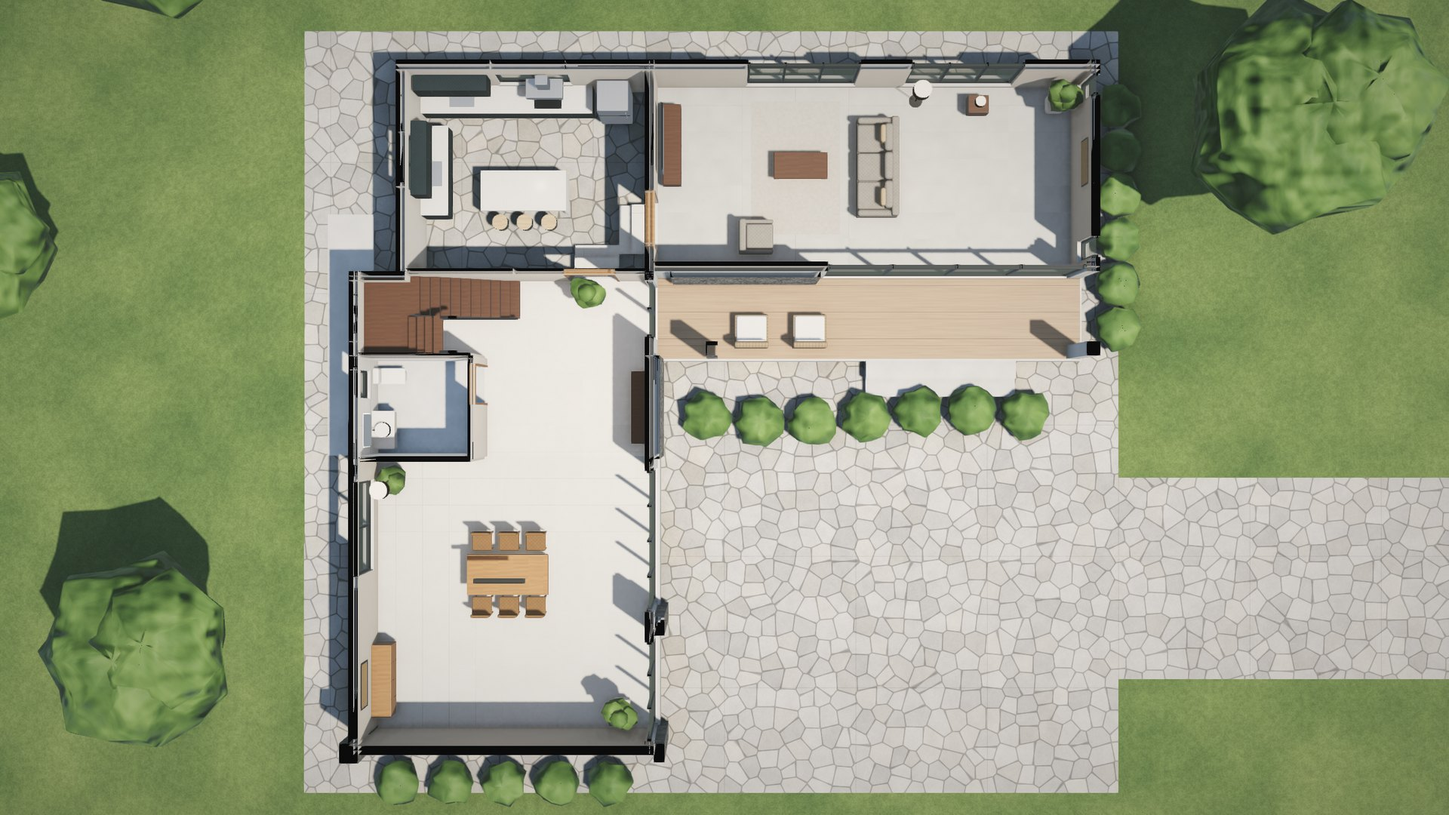
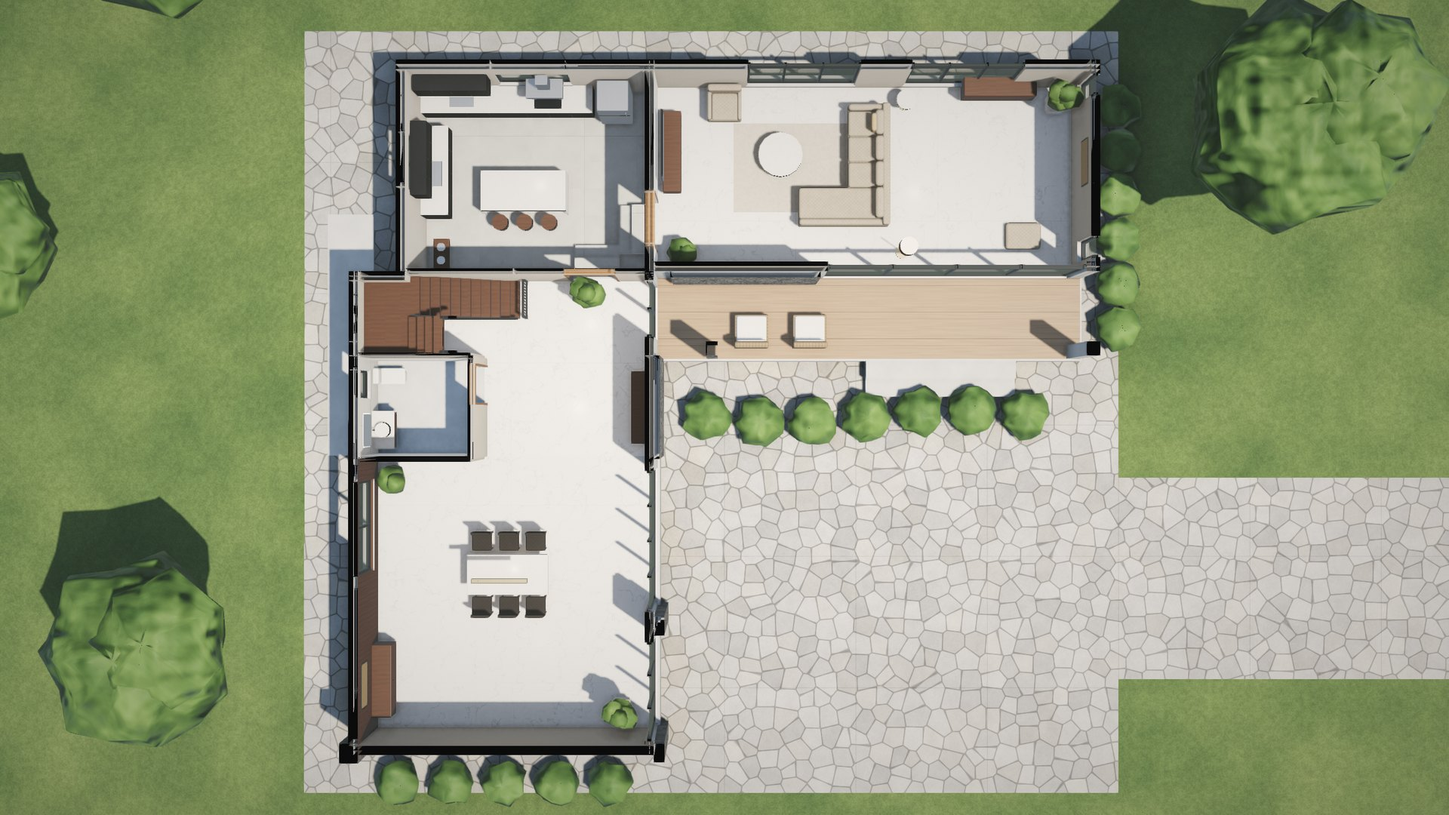
ตกแต่งภายใน Modern Luxury: วัสดุ ผังเฟอร์นิเจอร์ ห้องเด็ก ห้องทำงาน ความปลอดภัยเด็ก/สัตว์เลี้ยง
Claude-Session: https://claude.ai/code/session_013i3ffvjiePNLqy5JQb5Coc

diff --git a/studio.html b/studio.html
@@ -91,14 +91,14 @@ if(VIDEO)document.body.classList.add('video');
 const ZONES=[
  {id:0,n:'ภายนอกบ้าน',lv:0},
  {id:1,n:'ห้องรับแขก',lv:1,r:[[6.5,0,16,4.5,.6,3.9]],cam:[15.0,3.6,-1.93]},
- {id:2,n:'ครัว',lv:1,r:[[1,0,6.5,4.5,0,3.0]],cam:[5.2,3.4,-2.25]},
+ {id:2,n:'ครัว',lv:1,r:[[1,0,6.5,4.5,.012,3.0]],cam:[5.2,3.4,-2.25]},
  {id:3,n:'โถง / บันได',lv:1,r:[[3.4,4.5,6.5,6.3,.6,3.6],[0,4.5,3.4,6.3,.6,7.0],[2.6,6.3,6.5,8.5,.6,3.6]],cam:[5.6,7.9,-2.21]},
  {id:4,n:'ห้องน้ำ 3',lv:1,r:[[0,6.3,2.6,8.5,.5,3.6]],cam:[2.2,7.0,-1.23]},
  {id:5,n:'ห้องทานอาหาร',lv:1,r:[[0,8.5,6.5,12,.6,3.6],[0,12,6.5,14.8,.6,7.0]],cam:[5.6,9.0,-0.66]},
  {id:6,n:'เฉลียง',lv:1,r:[[6.5,4.5,16,6.3,.6,3.9]],cam:[15.2,5.4,-1.57]},
- {id:7,n:'ห้องนอน 3',lv:2,r:[[1,0,3.5,4.5,3.3,7.0]],cam:[3.0,3.9,-2.58]},
- {id:8,n:'ห้องนอน 2',lv:2,r:[[3.5,0,6.5,3.0,3.3,7.0]],cam:[6.0,2.7,-2.54]},
- {id:9,n:'ห้องนอน 1',lv:2,r:[[2.1,8.5,6.5,10.1,3.9,7.0],[0,10.1,6.5,12,3.9,7.0]],cam:[5.9,8.9,-0.84]},
+ {id:7,n:'ห้องเด็ก (นอน 3)',lv:2,r:[[1,0,3.5,4.5,3.3,7.0]],cam:[3.0,3.9,-2.58]},
+ {id:8,n:'ห้องทำงาน (นอน 2)',lv:2,r:[[3.5,0,6.5,3.0,3.3,7.0]],cam:[6.0,2.7,-2.54]},
+ {id:9,n:'ห้องนอนใหญ่ (นอน 1)',lv:2,r:[[2.1,8.5,6.5,10.1,3.9,7.0],[0,10.1,6.5,12,3.9,7.0]],cam:[5.9,8.9,-0.84]},
  {id:10,n:'โถงชั้น 2',lv:2,r:[[3.5,3.0,6.5,4.5,3.3,7.0],[3.4,4.5,6.5,6.3,3.9,7.0],[3.9,6.3,6.5,8.5,3.9,7.0]],cam:[5.2,8.0,3.14]},
  {id:11,n:'ห้องน้ำ 1',lv:2,r:[[0,6.3,2.1,10.1,3.8,7.0]],cam:[1.4,9.7,3.14]},
  {id:12,n:'ห้องน้ำ 2',lv:2,r:[[2.1,6.3,3.9,8.5,3.8,7.0]],cam:[3.5,7.0,-1.57]},
@@ -106,23 +106,23 @@ const ZONES=[
 ];
 const FLOORS=['แกรนิตโต้ 60×60 ขาวด้าน','ลามิเนตลายโอ๊ค 8 มม.','กระเบื้องเซรามิก 30×30','ปูนขัดมัน (ลอฟต์)','หินอ่อนคาร์ราร่า 80×80','ไม้เทียม WPC','SPC ลายวอลนัท','เทอราซโซ่','แกรนิตโต้ 60×120 ลายหินเทา'];
 const WOODS=[['โอ๊คธรรมชาติ','#a8794a'],['วอลนัท','#5b3a24'],['สัก','#8c5a30'],['ไวท์โอ๊ค','#cdb08a'],['ลามิเนตขาวด้าน','#e9e6df'],['เทาเข้ม (HPL)','#4b4b4d']];
-const DEF={1:['#ece6dc',8,'#9a9690'],2:['#f2efe9',0,'#2f3b40'],3:['#efebe4',0,'#7a5a3c'],4:['#d9d6d0',2,'#f4f4f2'],5:['#efe8dd',0,'#8a6a4a'],6:['#f2efe9',5,'#d8cfc2'],
- 7:['#e4ded3',1,'#b9c4c9'],8:['#e6e2da',1,'#c9b9a6'],9:['#e9e2d6',6,'#9aa8a0'],10:['#efebe4',1,'#7a5a3c'],11:['#cfcac2',2,'#f4f4f2'],12:['#cfcac2',2,'#f4f4f2'],13:['#f2efe9',2,'#d8cfc2']};
+const DEF={1:['#e8e2d8',4,'#b8ad9d'],2:['#eeeae3',8,'#2b2d30'],3:['#e8e2d8',4,'#2b2d30'],4:['#d9d4cc',2,'#2b2d30'],5:['#e8e2d8',4,'#3a3633'],6:['#f2efe9',5,'#d8cfc2'],
+ 7:['#e3e8ea',1,'#a9bccb'],8:['#dcd6cc',6,'#4a4f55'],9:['#e4dcd0',6,'#b9aa96'],10:['#e8e2d8',6,'#7a5a3c'],11:['#d9d4cc',2,'#2b2d30'],12:['#d9d4cc',2,'#2b2d30'],13:['#f2efe9',2,'#d8cfc2']};
 const LIGHTS=[[1,8.6,3.85,2.2],[1,12.6,3.85,2.2],[2,3.7,2.95,2.2],[3,4.8,3.55,5.4],[3,1.8,6.95,5.4],[3,4.5,3.55,7.4],[4,1.3,3.55,7.4],[5,3.2,2.85,11.1],[5,3.2,6.95,13.4],[6,9.5,3.85,5.4],[6,13.5,3.85,5.4],
  [7,2.3,6.95,2.2],[8,5,6.95,1.5],[9,4.2,6.95,10.6],[10,5,6.95,5.4],[11,1,6.95,8.2],[12,3,6.95,7.4]];
 
 // ================= state =================
 const S={wall:'#f2efe9',acc:'#3a3c40',wood:'#6b4a2f',stone:'#8f8a82',tod:38,trees:true,slats:true,spin:!VIDEO,Z:{}};
-const DEFW={1:1,2:3,3:1,4:4,5:0,6:2,7:3,8:0,9:0,10:1,11:2,12:2,13:2};
-const DEFF={4:4,11:4,12:4};
+const DEFW={1:1,2:1,3:1,4:1,5:1,6:2,7:3,8:1,9:1,10:1,11:1,12:1,13:2};
+const DEFF={4:4,11:7,12:4};
 for(const z of ZONES)if(z.id)S.Z[z.id]={wall:DEF[z.id][0],floor:DEF[z.id][1],furn:DEF[z.id][2],wood:DEFW[z.id],fin:DEFF[z.id]||0,show:true,light:true};
 const PAL={wall:['#f2efe9','#e9e4da','#d9d4cc','#c7c2b8','#ece3d3','#dfe6e8'],acc:['#3a3c40','#1f2124','#6d6f73','#f2efe9','#8a6a4a'],wood:['#6b4a2f','#8a5f3a','#3e2b1d','#b08257','#2b2b2b'],stone:['#8f8a82','#6e6a64','#a89a86','#5b5853','#b9b2a6'],
  iwall:['#f2efe9','#ece6dc','#e4ded3','#d6d3cd','#c9cdd0','#dfe6e1','#efe1d1','#b8a990','#7d8a86','#5d6266','#2f3438'],
  furn:['#8b8f94','#3d4a4f','#b9c4c9','#c9b9a6','#9aa8a0','#8a6a4a','#d8cfc2','#f4f4f2','#2b2d30','#a65d3f','#4a5d7a']};
-try{const sv=JSON.parse(localStorage.getItem('rb-house6')||'null');if(sv&&!VIDEO){const z=sv.Z;delete sv.Z;Object.assign(S,sv,{spin:true});if(z)for(const k in z)if(S.Z[k])Object.assign(S.Z[k],z[k]);}}catch(e){}
+try{const sv=JSON.parse(localStorage.getItem('rb-house7')||'null');if(sv&&!VIDEO){const z=sv.Z;delete sv.Z;Object.assign(S,sv,{spin:true});if(z)for(const k in z)if(S.Z[k])Object.assign(S.Z[k],z[k]);}}catch(e){}
 for(const k of ['wall','acc','wood','stone'])if(Q.get(k))S[k]='#'+Q.get(k);
 if(Q.get('tod'))S.tod=+Q.get('tod');
-const save=()=>{try{localStorage.setItem('rb-house6',JSON.stringify(S));}catch(e){}};
+const save=()=>{try{localStorage.setItem('rb-house7',JSON.stringify(S));}catch(e){}};
 
 // ================= GL =================
 const cv=document.getElementById('c');
@@ -130,7 +130,7 @@ const gl=cv.getContext('webgl2',{antialias:false,preserveDrawingBuffer:VIDEO,alp
 if(!gl){document.body.innerHTML='<p style="padding:20px">อุปกรณ์นี้ไม่รองรับ WebGL2 — ดูวิดีโอแทนได้ที่ <a href="house_360.mp4" style="color:#e8b86a">วิดีโอ 360°</a></p>';throw 0;}
 
 // ================= geometry =================
-const M={blackm:26,screen:27,steel:28,rattan:29,shade:30,down:31,pillow:32,pot:33,wall:0,stone:1,wood:2,glass:3,frame:4,conc:5,grass:6,pave:7,deck:8,acc:9,leaf:10,trunk:11,roof:12,soff:13,floor:14,ceil:15,furn:16,woodf:17,linen:18,dark:19,metal:20,white:21,top:22,lamp:23,rug:24,mirror:25};
+const M={brass:34,blackm:26,screen:27,steel:28,rattan:29,shade:30,down:31,pillow:32,pot:33,wall:0,stone:1,wood:2,glass:3,frame:4,conc:5,grass:6,pave:7,deck:8,acc:9,leaf:10,trunk:11,roof:12,soff:13,floor:14,ceil:15,furn:16,woodf:17,linen:18,dark:19,metal:20,white:21,top:22,lamp:23,rug:24,mirror:25};
 let G,COL,SURF,SCOL=[],DCOL=[];
 function Geo(){this.a=[];this.g=[];}
 Geo.prototype.quad=function(p0,p1,p2,p3,n,m,z){const a=m===M.glass?this.g:this.a;for(const p of [p0,p1,p2,p0,p2,p3])a.push(p[0],p[1],p[2],n[0],n[1],n[2],m,z);};
@@ -168,6 +168,7 @@ Geo.prototype.cyl=function(cx,y0,cz,r,y1,m,zn,col){const N=16,a=this.a;for(let i
 // ops: {a0,a1,y0,y1,k:'win'|'slide'|'open',p:panes,tr:transom}
 let OPN=0,OPS={},OPICK=[],WN=0,WALLS={},WPICK=[],WALLREG=false;
 const FINS=['สีทาเรียบ','หินตกแต่ง','อิฐโชว์','ผนังไม้','กระเบื้อง 30×60','ปูนเปลือย','วอลเปเปอร์','หินอ่อน'];
+function featureFin(axis,c,a0,z){z=z%100;if(z===1&&axis==='x'&&Math.abs(c-6.4)<.01)return 7;if(z===9&&axis==='z'&&Math.abs(c-12)<.01)return 3;if(z===5&&axis==='x'&&Math.abs(c-.1)<.01&&a0>=8.5)return 3;return null;}
 function zoneFin(z){z=z%100;return z===0?(S.extFin||0):((S.Z[z]&&S.Z[z].fin)||0);}
 function wall(axis,c,a0,a1,y0,y1,t,zn,zp,ops){
   const wid=WALLREG?WN++:null;
@@ -175,7 +176,7 @@ function wall(axis,c,a0,a1,y0,y1,t,zn,zp,ops){
     WPICK.push({kind:'wl',id:wid,lv:y1<=4?1:(y0>=3.1?2:0),box:axis==='x'?[c-t/2-.04,y0,a0,c+t/2+.04,y1,a1]:[a0,y0,c-t/2-.04,a1,y1,c+t/2+.04]});
     ops=(ops||[]).filter(o=>!(S.opdel&&S.opdel[o.id]));for(const ad of (S.opadd||[]))if(ad.wid===wid)ops.push(Object.assign({},ad));}
   const wsel=wid!==null&&SELI&&SELI.kind==='wl'&&SELI.id===wid?100:0;
-  const mN=40+((wid!==null&&S.wf&&S.wf[wid+'n']!=null)?S.wf[wid+'n']:zoneFin(zn)),mP=40+((wid!==null&&S.wf&&S.wf[wid+'p']!=null)?S.wf[wid+'p']:zoneFin(zp));
+  const fz=z=>{const ff=wid!==null?featureFin(axis,c,a0,z):null;return ff!=null?ff:zoneFin(z);};const mN=40+((wid!==null&&S.wf&&S.wf[wid+'n']!=null)?S.wf[wid+'n']:fz(zn)),mP=40+((wid!==null&&S.wf&&S.wf[wid+'p']!=null)?S.wf[wid+'p']:fz(zp));
   ops=(ops||[]).map(o=>{if(o.id===undefined)return Object.assign({},o);OPS[o.id]={id:o.id,axis,c,a0,a1,y0,y1,zn,zp,orig:o};return Object.assign({},o,(S.ops&&S.ops[o.id])||{});}).sort((p,q)=>p.a0-q.a0);
   {let prev=a0+0.05;for(const o of ops){const w=Math.max(.3,o.a1-o.a0);o.a0=Math.max(o.a0,prev);o.a1=Math.min(o.a0+w,a1-.05);o.y0=Math.max(o.y0,y0);o.y1=Math.min(o.y1,y1-.05);if(o.y1-o.y0<.3)o.y0=o.y1-.3;prev=o.a1+.08;}
    ops=ops.filter(o=>o.a1-o.a0>=.25);}
@@ -263,7 +264,7 @@ function buildHouse(){
   // ---------- stair ST-1 (two flights + landing) ----------
   for(let i=0;i<11;i++){box(3.4-0.2*(i+1),0.6,4.55,3.4-0.2*i,0.6+0.15*(i+1),5.4,M.woodf,3,true);}
   box(.2,0.6,4.55,1.2,2.25,6.25,M.woodf,3,true);surf(.2,4.55,1.2,6.25,2.25);
-  for(let i=0;i<11;i++){const ty=2.25+0.15*(i+1);box(1.2+0.2*i,ty-0.06,5.45,1.2+0.2*(i+1),ty,6.25,M.woodf,3);COL.push([1.2+0.2*i,ty-0.35,5.45,1.2+0.2*(i+1),ty,6.25]);}
+  for(let i=0;i<11;i++){const ty=2.25+0.15*(i+1);box(1.2+0.2*i,ty-0.06,5.45,1.2+0.2*(i+1),ty,6.25,M.woodf,3);box(1.2+0.2*i,ty-0.21,5.47,1.2+0.2*i+0.018,ty-0.06,6.23,M.woodf,3);COL.push([1.2+0.2*i,ty-0.35,5.45,1.2+0.2*(i+1),ty,6.25]);}
   {const a=[1.2,2.1],b=[3.4,3.75];for(const zz of [5.45,6.19]){const n=12;for(let k=0;k<n;k++){const x0=a[0]+(b[0]-a[0])*k/n,x1=a[0]+(b[0]-a[0])*(k+1)/n,y0=a[1]+(b[1]-a[1])*k/n;box(x0,y0,zz,x1,y0+0.22,zz+0.06,M.frame);}}}
   surf(1.2,4.55,3.4,5.4,0,{x0:3.4,y0:.6,x1:1.2,y1:2.25});surf(1.2,5.45,3.4,6.25,0,{x0:1.2,y0:2.25,x1:3.4,y1:3.9});
   box(3.38,3.9,4.5,3.42,4.9,5.42,M.glass,0,true);box(3.36,4.9,4.5,3.44,4.95,5.42,M.frame);   // railing at stairwell
@@ -329,10 +330,10 @@ const CAT={
  rug:{n:'พรม 200×300',g:'นั่งเล่น',f(b){b(-1,0,-1.5,1,.012,1.5,M.rug,.005);}},
  plant:{n:'ต้นไม้กระถาง (ไทรใบสัก)',g:'ของตกแต่ง',f(b,c){b(-.19,0,-.19,.19,.42,.19,M.pot,.07);c(0,.4,0,.02,1.0,M.trunk);c.blob(0,1.15,0,.32,.38);c.blob(.15,1.4,.05,.26,.3);c.blob(-.12,1.5,-.08,.24,.28);c.blob(.02,1.7,.02,.2,.22);}},
  plant2:{n:'ต้นไม้เล็ก (มอนสเตอร่า)',g:'ของตกแต่ง',f(b,c){b(-.15,0,-.15,.15,.3,.15,M.pot,.06);c.blob(0,.55,0,.32,.26);c.blob(.12,.7,.06,.22,.2);}},
- lampf:{n:'โคมไฟตั้งพื้น',g:'ของตกแต่ง',f(b,c){c(0,0,0,.15,.02,M.blackm);c(0,.02,0,.012,1.32,M.blackm);c(0,1.3,0,.2,1.6,M.shade);}},
- pendant:{n:'โคมไฟห้อย LED',g:'ของตกแต่ง',f(b,c,k){b(-.55,2.2,-.05,.55,2.26,.05,M.blackm,.01);b(-.53,2.195,-.035,.53,2.2,.035,M.down);for(const x of[-.4,.4])b(x-.004,2.26,-.004,x+.004,k.ceil,.004,M.blackm);},nocol:1},
+ lampf:{n:'โคมไฟตั้งพื้น',g:'ของตกแต่ง',f(b,c){c(0,0,0,.15,.02,M.brass);c(0,.02,0,.012,1.32,M.brass);c(0,1.3,0,.2,1.6,M.shade);}},
+ pendant:{n:'โคมไฟห้อย LED',g:'ของตกแต่ง',f(b,c,k){b(-.6,2.2,-.05,.6,2.26,.05,M.brass,.01);b(-.58,2.195,-.035,.58,2.2,.035,M.down);for(const x of[-.45,.45])b(x-.004,2.26,-.004,x+.004,k.ceil,.004,M.brass);},nocol:1},
  art:{n:'กรอบรูปติดผนัง',g:'ของตกแต่ง',f(b){b(-.5,1.3,-.03,.5,2.0,0,M.blackm);b(-.47,1.33,-.031,.47,1.97,.001,M.pillow);},nocol:1},
- dining:{n:'ชุดโต๊ะอาหาร 6 ที่ 180×90',g:'ทานอาหาร',f(b){b(-.9,.71,-.45,.9,.75,.45,M.woodf,.01);for(const x of[-.8,.8])b(x-.03,0,-.38,x+.03,.71,.38,M.blackm);b(-.8,.66,-.03,.8,.7,.03,M.blackm);
+ dining:{n:'ชุดโต๊ะอาหาร 6 ที่ 180×90 ท็อปหินอ่อนขอบมน',g:'ทานอาหาร',f(b){b(-.9,.71,-.45,.9,.75,.45,M.top,.06);for(const x of[-.7,.7])b(x-.03,0,-.3,x+.03,.71,.3,M.brass,.01);b(-.7,.64,-.03,.7,.68,.03,M.brass);
    for(const x of[-.6,0,.6])for(const s of[-1,1]){const z=s*.72;b(x-.22,.44,z-.21,x+.22,.5,z+.21,M.furn,.03);b(x-.21,.5,s<0?z-.22:z+.16,x+.21,.88,s<0?z-.16:z+.22,M.furn,.03);
      for(const[dx,dz]of[[-.18,-.18],[.18,-.18],[-.18,.18],[.18,.18]])b(x+dx-.015,0,z+dz-.015,x+dx+.015,.44,z+dz+.015,M.woodf);}}},
  dining4:{n:'ชุดโต๊ะอาหาร 4 ที่ 120×80',g:'ทานอาหาร',f(b){b(-.6,.71,-.4,.6,.75,.4,M.woodf,.01);legs(b,.54,.34,.71,M.woodf,.025);
@@ -360,17 +361,33 @@ const CAT={
  tub:{n:'อ่างอาบน้ำแบบตั้งพื้น',g:'ห้องน้ำ',f(b){b(-.8,0,-.38,.8,.58,.38,M.white,.18);b(-.68,.4,-.27,.68,.582,.27,M.top,.12);}},
  shower:{n:'ฉากกั้นอาบน้ำ + เรนชาวเวอร์',g:'ห้องน้ำ',f(b,c){b(-.45,0,-.6,.45,.02,.6,M.white);b(-.45,0,.58,.45,2.0,.6,M.glass);b(-.45,1.97,.575,.45,2.0,.605,M.blackm);b(.44,0,.575,.47,2.0,.605,M.blackm);
    c(0,2.0,-.3,.12,2.02,M.blackm);b(-.01,2.02,-.6,.01,2.04,-.3,M.blackm);}},
+ coffeeR:{n:'โต๊ะกลางหินอ่อนขอบมน Ø100',g:'นั่งเล่น',f(b,c){c(0,0,0,.3,.02,M.brass);c(0,.02,0,.16,.3,M.brass);c(0,.3,0,.5,.37,M.top);}},
+ sideR:{n:'โต๊ะข้างหินอ่อน Ø45',g:'นั่งเล่น',f(b,c){c(0,0,0,.16,.02,M.brass);c(0,.02,0,.025,.5,M.brass);c(0,.5,0,.225,.53,M.top);}},
+ gate:{n:'ประตูกั้นบันได (กันเด็ก/สัตว์เลี้ยง)',g:'ความปลอดภัย',nocol:1,f(b){b(-.43,0,-.03,-.39,.8,.03,M.blackm);b(.39,0,-.03,.43,.8,.03,M.blackm);b(-.43,.76,-.02,.43,.8,.02,M.blackm);b(-.43,.04,-.02,.43,.08,.02,M.blackm);for(let x=-.33;x<.36;x+=.065)b(x-.008,.08,-.008,x+.008,.76,.008,M.blackm);}},
+ rugR:{n:'พรมกลม Ø160',g:'ห้องเด็ก',f(b,c){c(0,0,0,.8,.012,M.rug);}},
+ toybox:{n:'ชั้นเก็บของเล่นขอบมน',g:'ห้องเด็ก',f(b){b(-.6,0,-.2,.6,.62,.2,M.woodf,.03);for(const x of[-.2,.2])b(x-.004,.04,.2,x+.004,.58,.203,M.blackm);b(-.5,.62,-.12,-.22,.82,.1,M.pillow,.06);b(.15,.62,-.1,.45,.74,.1,M.furn,.05);}},
+ kidtable:{n:'โต๊ะเด็กกลม + เก้าอี้',g:'ห้องเด็ก',f(b,c){c(0,0,0,.04,.46,M.woodf);c(0,.46,0,.36,.5,M.woodf);for(const x of[-.55,.55])c(x,0,0,.15,.28,M.furn);}},
+ deskL:{n:'โต๊ะทำงาน 160×70 + เก้าอี้ Ergonomic',g:'ห้องทำงาน',f(b){b(-.8,.72,-.35,.8,.76,.35,M.woodf,.01);b(-.78,0,-.32,-.74,.72,.32,M.brass);b(.74,0,-.32,.78,.72,.32,M.brass);b(.3,.45,-.33,.72,.72,.15,M.woodf);
+   b(-.36,.86,-.3,.36,1.27,-.27,M.screen,.005);b(-.03,.76,-.27,.03,.88,-.22,M.blackm);b(-.2,.76,-.05,.2,.77,.08,M.blackm);
+   b(-.26,.47,.3,.26,.55,.8,M.furn,.04);b(-.25,.6,.74,.25,1.25,.82,M.furn,.05);b(-.02,.06,.53,.02,.47,.57,M.blackm);b(-.3,0,.25,.3,.06,.85,M.blackm);}},
+ shelf:{n:'ชั้นหนังสือวอลนัท 160×35×200',g:'ห้องทำงาน',f(b){b(-.8,0,-.17,-.77,2,.17,M.woodf);b(.77,0,-.17,.8,2,.17,M.woodf);b(-.8,0,-.17,.8,2,-.14,M.woodf);b(-.8,1.97,-.17,.8,2,.17,M.woodf);
+   for(let y=0;y<1.9;y+=.4){b(-.77,y,-.14,.77,y+.025,.17,M.brass);for(let i=0;i<9;i++){const x=-.7+i*.16+((y*10)%3)*.01,h=.2+((i*37+y*50)%7)*.02;if((i+y*7)%5<1)continue;b(x,y+.025,-.1,x+.05,y+.025+h,.12,(i+Math.round(y*5))%3?M.pillow:M.furn);}}}},
+ dresser:{n:'โต๊ะเครื่องแป้ง + กระจก',g:'ห้องนอน',f(b,c){b(-.6,.15,-.22,.6,.76,.22,M.woodf,.01);legs(b,.55,.17,.15,M.brass,.015);b(-.32,.95,-.22,.32,1.65,-.2,M.mirror,.01);b(-.34,.93,-.225,.34,1.67,-.215,M.brass);c(0,0,.45,.2,.45,M.furn);}},
+ petbed:{n:'ที่นอนสัตว์เลี้ยง',g:'สัตว์เลี้ยง',f(b){b(-.4,0,-.3,.4,.2,.3,M.furn,.08);b(-.32,.06,-.22,.32,.16,.22,M.linen,.05);}},
+ petfeed:{n:'มุมให้อาหารสัตว์เลี้ยง',g:'สัตว์เลี้ยง',f(b,c){b(-.35,0,-.18,.35,.12,.18,M.woodf,.02);c(-.15,.12,0,.1,.17,M.steel);c(.15,.12,0,.1,.17,M.steel);}},
  lounge:{n:'เก้าอี้สนามหวาย',g:'ภายนอก',f(b){b(-.38,0,-.38,.38,.36,.38,M.rattan,.04);b(-.38,0,-.38,.38,.78,-.24,M.rattan,.04);b(-.33,.36,-.25,.33,.46,.34,M.linen,.04);b(-.33,.46,-.3,.33,.74,-.2,M.linen,.05);}},
 };
 const ITEMS0=[
- ['sofa',11.4,2.05,1,1],['art',15.78,2.1,1,1],['lampf',12.3,.5,0,1],['tv',6.83,1.55,3,1],['coffee',9.7,2.0,0,1],['rug',9.6,2.0,0,1],['arm',8.7,3.6,3,1],['plant',15.4,.6,0,1],['night',13.65,.65,0,1],
- ['counter',2.2,.5,0,1],['counterhob',4.05,.5,0,1],['counter',1.5,2.1,3,1],['wallcab',2.05,.5,0,1],['wallcab',1.5,2.0,3,1],['fridge',5.55,.58,0,1],['island',3.5,2.55,0,1],
- ['shoe',6.12,7.4,1,1],['plant',5.0,4.9,0,1],['toilet',.5,6.7,3,1],['vanity',.45,7.9,3,1],
- ['dining',3.2,11.1,0,1],['art',.22,13.4,3,1],['plant2',.6,9.0,0,1],['pendant',3.2,11.1,0,1],['side',.42,13.45,3,1],['plant',5.7,14.1,0,1],['lampf',.5,9.2,0,1],
+ ['lsofa',11.2,2.0,1,1],['coffeeR',9.25,1.75,0,1],['rug',9.7,2.0,1,1],['tv',6.83,1.7,3,1],['arm',8.0,.62,0,1],['sideR',12.05,.55,0,1],['lampf',12.0,3.9,0,1],
+ ['side',14.1,.3,0,1],['art',15.78,2.1,1,1],['plant',15.4,.6,0,1],['plant2',7.05,3.95,0,1],['petbed',14.7,3.55,0,1],
+ ['counter',2.2,.5,0,1],['counterhob',4.05,.5,0,1],['counter',1.5,2.1,3,1],['wallcab',2.05,.5,0,1],['wallcab',1.5,2.0,3,1],['fridge',5.55,.58,0,1],['island',3.5,2.55,0,1],['petfeed',1.55,3.9,3,1],
+ ['shoe',6.12,7.4,1,1],['plant',5.0,4.9,0,1],['gate',3.55,4.98,1,1],['toilet',.5,6.7,3,1],['vanity',.45,7.9,3,1],
+ ['dining',3.2,11.1,0,1],['pendant',3.2,11.1,0,1],['side',.42,13.45,3,1],['art',.22,13.4,3,1],['plant2',.6,9.0,0,1],['plant',5.7,14.1,0,1],
  ['lounge',8.6,5.7,2,1],['lounge',9.9,5.7,2,1],
- ['bed6',2.35,2.2,3,2],['night',1.55,.6,3,2],['night',1.55,3.8,3,2],['ward',2.78,4.08,2,2],
- ['bed6',5.0,1.33,0,2],['ward',6.0,.95,1,2],['night',3.82,.5,0,2],
- ['bed6',3.4,10.85,2,2],['night',2.1,11.62,2,2],['night',4.7,11.62,2,2],['ward',2.5,9.3,3,2],['desk',5.85,10.6,1,2],['rug',3.4,9.7,1,2],
+ ['gate',3.55,5.85,1,2],
+ ['bed35',2.36,.9,3,2],['night',1.5,1.85,3,2],['toybox',3.25,2.0,1,2],['rugR',2.2,2.95,0,2],['kidtable',2.2,2.95,0,2],['ward',2.78,4.08,2,2],
+ ['deskL',5.0,.5,0,2],['shelf',3.75,1.5,3,2],['sofa2',5.8,2.0,1,2],['plant2',6.05,.4,0,2],
+ ['bed6',3.4,10.85,2,2],['night',2.1,11.62,2,2],['night',4.7,11.62,2,2],['ward',2.5,9.3,3,2],['dresser',5.65,11.7,2,2],['arm',5.7,9.3,1,2],['sideR',5.9,10.05,0,2],['rug',3.4,9.7,1,2],
  ['tub',.6,7.2,3,2],['toilet',1.35,9.6,2,2],['vanity',1.75,7.0,1,2],['shower',.8,8.65,3,2],['toilet',2.5,8.15,2,2],['vanity',3.57,6.85,1,2],['lounge',6.75,11.1,1,2],
 ].map(([t,x,z,r,lv],i)=>({id:i+1,t,x,z,r,lv}));
 if(!S.items)S.items=JSON.parse(JSON.stringify(ITEMS0));
@@ -505,6 +522,7 @@ void main(){
   else if(vM==30){alb=vec3(.95,.92,.86);emis=vec3(1.,.74,.45)*2.2*uZL[vZ];rough=.9;}
   else if(vM==32){vec2 w=uvf*380.;alb=mix(uZC[vZ]*.75,vec3(.78,.56,.30),.55)*(.9+.12*fbm(uvf*16.))*(.93+.07*sin(w.x)*sin(w.y));rough=.95;sheen=.5;}
   else if(vM==33){alb=vec3(.88,.86,.82)*(.92+.08*fbm(uvf*8.));rough=.25;}
+  else if(vM==34){alb=vec3(.80,.64,.38)*(.95+.05*vn(vec2(uvf.x*600.,uvf.y*3.)));metal=1.;rough=.3;}
   else if(vM>=40){int f=vM-40;vec3 wc=uZW[vZ];vec2 q=uvf;
     if(f==0){alb=wc*(0.97+0.05*fbm(q*3.))*(.985+.03*vn(q*120.));rough=.9;}
     else if(f==1){float row=floor(q.y/.1);float u=q.x+h21(vec2(row,3.))*2.;float L=.22+.4*h21(vec2(row,floor(u/.6)));float cell=floor(u/L);float fu=fract(u/L),fv=fract(q.y/.1);

diff --git a/index.html b/index.html
@@ -101,6 +101,17 @@ footer .wrap{display:flex;flex-wrap:wrap;gap:8px 28px;justify-content:space-betw
 #lb p{position:absolute;bottom:14px;left:0;right:0;text-align:center;color:#ddd;margin:0}
 #lb button{position:absolute;top:10px;background:none;border:0;color:#fff;font-size:34px;cursor:pointer;padding:10px 16px}
 #lb .x{right:4px}#lb .pv{left:4px;top:45%}#lb .nx{right:4px;top:45%}
+.pal{display:grid;grid-template-columns:repeat(6,minmax(0,1fr));gap:8px;margin-top:22px}
+.pal div{border-radius:6px;overflow:hidden;border:1px solid var(--line)}
+.pal i{display:block;height:64px}
+.pal span{display:block;padding:7px 9px;font-size:13.5px;line-height:1.35}
+.rooms td:first-child{font-weight:600;white-space:nowrap}
+.scroll{overflow-x:auto}
+.safe{display:grid;grid-template-columns:repeat(3,minmax(0,1fr));gap:18px;margin-top:24px}
+.safe div{border-top:2px solid var(--wood);padding-top:10px}
+.safe p{margin:4px 0 0;color:var(--mut);font-size:15px}
+@media(max-width:760px){.pal{grid-template-columns:repeat(3,minmax(0,1fr))}.safe{grid-template-columns:minmax(0,1fr)}}
+@media(max-width:600px){.rooms thead{display:none}.rooms tr{display:grid;padding-block:10px;border-bottom:1px solid var(--line)}.rooms td{border:0;padding:2px 0}}
 @media(max-width:900px){.gal{grid-template-columns:repeat(2,minmax(0,1fr))}.feat{grid-template-columns:repeat(2,minmax(0,1fr))}}
 @media(max-width:760px){nav a:not(.btn){display:none}.plan,.two,.chg,.vids{grid-template-columns:minmax(0,1fr)}.figs div{border-right:0;border-bottom:1px solid var(--line)}}
 @media(max-width:600px){table{font-size:14px}th,td{padding:7px 4px}.pin{width:22px;height:22px;font-size:12px;line-height:22px}}
@@ -108,7 +119,7 @@ footer .wrap{display:flex;flex-wrap:wrap;gap:8px 28px;justify-content:space-betw
 </style>
 </head>
 <body>
-<nav><div class="wrap"><b>บ้านราชบุรี</b><a href="#gallery">ภาพ</a><a href="#video">วิดีโอ</a><a href="#plans">ผังบ้าน</a><a href="#specs">วัสดุ</a><a href="#changes">การแก้แบบ</a><a class="btn pri" href="studio.html">เปิดโมเดล 3D</a></div></nav>
+<nav><div class="wrap"><b>บ้านราชบุรี</b><a href="#gallery">ภาพ</a><a href="#video">วิดีโอ</a><a href="#plans">ผังบ้าน</a><a href="#interior">ตกแต่งภายใน</a><a href="#specs">วัสดุ</a><a href="#changes">การแก้แบบ</a><a class="btn pri" href="studio.html">เปิดโมเดล 3D</a></div></nav>
 
 <header class="hero">
   <img src="img/01_exterior_day.jpg" alt="ภาพจำลองภายนอกบ้านราชบุรี ตอนกลางวัน">
@@ -151,6 +162,34 @@ footer .wrap{display:flex;flex-wrap:wrap;gap:8px 28px;justify-content:space-betw
   </div>
 </div></section>
 
+<section class="band" id="interior"><div class="wrap">
+  <h2>ตกแต่งภายในแบบ Modern Luxury ที่ปลอดภัยสำหรับเด็กและสัตว์เลี้ยง</h2>
+  <p class="lead">โทนเทาเบจอุ่นตัดกับไม้วอลนัท หินอ่อนลายคาร์ราร่า และโลหะทองเหลืองแบบด้าน วางผังตามการใช้งานจริงของครอบครัวที่มีเด็กเล็ก ทำงานที่บ้าน และเลี้ยงสัตว์</p>
+  <div class="pal">
+    <div><i style="background:#e8e2d8"></i><span>ผนังเทาเบจอุ่น</span></div>
+    <div><i style="background:linear-gradient(135deg,#eeece8 40%,#cfccc6 41%,#eeece8 44%)"></i><span>หินอ่อนคาร์ราร่า</span></div>
+    <div><i style="background:#5b3a24"></i><span>ไม้วอลนัท</span></div>
+    <div><i style="background:#c9a462"></i><span>ทองเหลืองด้าน</span></div>
+    <div><i style="background:#b8ad9d"></i><span>ผ้าเทาโอ๊ต (ทนรอยข่วน)</span></div>
+    <div><i style="background:#2b2d30"></i><span>ดำด้าน</span></div>
+  </div>
+  <div class="scroll"><table class="rooms" style="margin-top:26px"><thead><tr><th>ห้อง</th><th>การใช้งาน</th><th>วัสดุและจุดเด่น</th><th>ความปลอดภัย</th></tr></thead><tbody>
+    <tr><td>ห้องรับแขก</td><td>โซฟาตัวแอล 270 ซม. หันเข้าผนังทีวี เปิดออกเฉลียงผ่านประตู 5.50 ม.</td><td>ผนังทีวีหินอ่อน · พื้นกระเบื้องลายหินอ่อน 60×120 · โต๊ะกลางหินอ่อนขาทองเหลือง</td><td>โต๊ะกลมขอบมน · ยึดทีวีและตู้ติดผนัง · ที่นอนสัตว์เลี้ยงริมแดด</td></tr>
+    <tr><td>ครัว</td><td>เคาน์เตอร์ตัวแอล + เกาะกลาง 3 ที่นั่ง</td><td>ตู้ดำด้าน · ท็อปควอตซ์ลายหินอ่อน · ไฟ LED ใต้ตู้แขวน</td><td>เตาแม่เหล็กไฟฟ้า (ไม่มีเปลวไฟ) · มุมให้อาหารสัตว์เลี้ยงนอกทางเดิน</td></tr>
+    <tr><td>ทานอาหาร</td><td>โต๊ะ 6 ที่ ใต้เพดานสูง 2 ชั้น</td><td>ผนังไม้วอลนัทเซาะร่อง · ท็อปหินอ่อนขอบมน · โคมไฟห้อย LED ทองเหลือง</td><td>มุมโต๊ะโค้งรัศมี 6 ซม.</td></tr>
+    <tr><td>โถง / บันได</td><td>ทางขึ้นชั้น 2</td><td>ลูกนอนไม้วอลนัท · ราวกระจก</td><td>ประตูกั้นบันไดบนและล่าง · ปิดช่องลูกตั้งช่วงบน</td></tr>
+    <tr><td>ห้องนอนใหญ่</td><td>เตียง 6 ฟุต · โต๊ะเครื่องแป้ง · มุมนั่งริมระเบียง</td><td>ผนังหัวเตียงไม้วอลนัท · พื้น SPC ลายวอลนัท</td><td>ราวกระจกระเบียงสูง 1.05 ม. ไม่วางเฟอร์นิเจอร์ที่ปีนได้ชิดราว</td></tr>
+    <tr><td>ห้องเด็ก</td><td>เตียง 3.5 ฟุต · โต๊ะเล่นกลม · ชั้นเก็บของเล่น</td><td>ผนังฟ้าเทาอ่อน · พื้นลามิเนตโอ๊ค · พรมกลม</td><td>เฟอร์นิเจอร์ขอบมนทุกชิ้น · ปลั๊กสูง/มีฝาปิด</td></tr>
+    <tr><td>ห้องทำงาน</td><td>โต๊ะ 160 ซม. หันรับแสงจากหน้าต่าง · โซฟาเบดรับแขกค้างคืน</td><td>ชั้นหนังสือวอลนัทคิ้วทองเหลือง · เก้าอี้ Ergonomic</td><td>ห้องอยู่ติดโถง ได้ยินเสียงเด็กแต่แยกเป็นสัดส่วน</td></tr>
+    <tr><td>ห้องน้ำ</td><td>ห้องน้ำใหญ่มีอ่างแช่ตั้งพื้น + ฝักบัวแยก</td><td>ผนังหินอ่อน · อ่างล้างหน้าแขวนผนังไม้วอลนัท</td><td>พื้นกระเบื้องผิวด้านกันลื่น · ฉากกั้นกระจกนิรภัย</td></tr>
+  </tbody></table></div>
+  <div class="safe">
+    <div><h3>เด็กเล็ก</h3><p>ประตูกั้นบันได 2 จุด ลูกตั้งบันไดปิดทึบ มุมเฟอร์นิเจอร์โค้ง ยึดตู้สูงและทีวีกับผนัง</p></div>
+    <div><h3>สัตว์เลี้ยง</h3><p>พื้นกระเบื้องและ SPC ทนรอยข่วน ผ้าโซฟาแบบทนรอยข่วนทำความสะอาดง่าย มีที่นอนและมุมให้อาหารแยกจากทางเดิน</p></div>
+    <div><h3>ทำงานที่บ้าน</h3><p>ห้องทำงานแยกบนชั้น 2 รับแสงธรรมชาติ ชั้นหนังสือเต็มผนัง และโซฟาเบดสำหรับแขก</p></div>
+  </div>
+</div></section>
+
 <section class="band" id="specs" style="background:var(--soft)"><div class="wrap">
   <h2>โครงสร้างตามรายการประกอบแบบ วัสดุตกแต่งตามที่เลือกไว้ในโมเดล</h2>
   <div class="two">
@@ -164,10 +203,10 @@ footer .wrap{display:flex;flex-wrap:wrap;gap:8px 28px;justify-content:space-betw
     </tbody></table></div>
     <div><h3>วัสดุตกแต่งในโมเดล</h3><table><tbody>
       <tr><th>ผนังภายนอก</th><td>ฉาบเรียบสีขาวอุ่น · ผนังหินตกแต่งโทนเทา · กรอบอะลูมิเนียมสีดำ</td></tr>
-      <tr><th>ห้องรับแขก</th><td>แกรนิตโต้ 60×120 ลายหินเทา · ผนังสีทา</td></tr>
-      <tr><th>ครัว / ทานอาหาร</th><td>แกรนิตโต้ 60×60 ขาวด้าน · เคาน์เตอร์ท็อปควอตซ์</td></tr>
-      <tr><th>ห้องนอน</th><td>ห้องนอน 1 SPC ลายวอลนัท · ห้องนอน 2–3 ลามิเนตลายโอ๊ค 8 มม.</td></tr>
-      <tr><th>ห้องน้ำ</th><td>กระเบื้องเซรามิก พื้น 30×30 ผนัง 30×60</td></tr>
+      <tr><th>รับแขก / ทานอาหาร / โถง</th><td>กระเบื้องพอร์ซเลนลายหินอ่อน 60×120 · ผนังทีวีหินอ่อน · ผนังไม้วอลนัทเซาะร่อง</td></tr>
+      <tr><th>ครัว</th><td>แกรนิตโต้ 60×120 ลายหินเทา · ตู้ดำด้าน · ท็อปควอตซ์</td></tr>
+      <tr><th>ห้องนอน / ทำงาน</th><td>SPC ลายวอลนัท · ห้องเด็กลามิเนตโอ๊ค 8 มม.</td></tr>
+      <tr><th>ห้องน้ำ</th><td>พื้นกระเบื้อง 30×30 ผิวด้านกันลื่น · ผนังห้องน้ำใหญ่หินอ่อน ห้องอื่นกระเบื้อง 30×60</td></tr>
       <tr><th>เฉลียง</th><td>พื้นไม้ ฝ้าระแนงไม้ ประตูกระจกบานเลื่อน 4 บาน</td></tr>
       <tr><th>ลานหน้าบ้าน</th><td>คอนกรีตพิมพ์ลายหินแผ่นแบบสุ่ม โทนเทา เคลือบกันลื่น มีรอยตัดควบคุมการแตกร้าวทุก 3 ม.</td></tr>
     </tbody></table><p class="note">เปลี่ยนพื้น ผนัง สีเฟอร์นิเจอร์ และผิวไม้ได้ทีละห้องในโมเดล 3D</p></div>
@@ -182,6 +221,7 @@ footer .wrap{display:flex;flex-wrap:wrap;gap:8px 28px;justify-content:space-betw
       <li><b>ย้ายผนังหินไปชิดมุมตัวบ้าน 2 ชั้น</b>เดิมอยู่ระหว่างหน้าต่างกับประตูบานเลื่อน</li>
       <li><b>ประตูกระจกบานเลื่อนกว้าง 5.50 ม. แบ่ง 4 บาน</b>สูง 2.55 ม. เท่าเดิม</li>
       <li><b>ระแนงไม้และหน้าต่างหลังระแนงเปลี่ยนเป็นผนังหิน</b>รวมเป็นผนังหินผืนเดียวกว้าง 3.20 ม.</li>
+      <li><b>ลานหน้าบ้านเป็นคอนกรีตพิมพ์ลายหินแผ่น</b>โทนเทาเข้ากับผนังหิน</li>
     </ol><p class="note">ยืนยันแบบเมื่อ 23 พ.ย. 2569</p></div>
   </div>
 </div></section>
@@ -207,8 +247,8 @@ footer .wrap{display:flex;flex-wrap:wrap;gap:8px 28px;justify-content:space-betw
 
 <script>
 {
-const IMGS=[['01_exterior_day','ภายนอก ยามบ่าย'],['02_living','ห้องรับแขก'],['03_kitchen','ครัว'],['04_dining','ห้องทานอาหาร เพดานสูง 2 ชั้น'],['05_master_bedroom','ห้องนอน 1'],['06_exterior_night','ภายนอก ยามค่ำ'],
-  ['07_living_facade','ด้านหน้าห้องรับแขก'],['08_aerial','มุมสูง'],['12_stamped_courtyard','ลานคอนกรีตพิมพ์ลายหน้าบ้าน'],['11_stair_hall','โถงและบันได']];
+const IMGS=[['01_exterior_day','ภายนอก ยามบ่าย'],['02_living','ห้องรับแขก'],['03_kitchen','ครัว'],['04_dining','ห้องทานอาหาร เพดานสูง 2 ชั้น'],['05_master_bedroom','ห้องนอนใหญ่'],['06_exterior_night','ภายนอก ยามค่ำ'],
+  ['07_living_facade','ด้านหน้าห้องรับแขก'],['08_aerial','มุมสูง'],['12_stamped_courtyard','ลานคอนกรีตพิมพ์ลายหน้าบ้าน'],['11_stair_hall','โถงและบันได มีประตูกั้นเด็ก'],['13_kids_room','ห้องเด็ก'],['14_home_office','ห้องทำงาน'],['15_master_bath','ห้องน้ำห้องนอนใหญ่']];
 const ROOMS=[
   {n:1,id:'ห้องรับแขก',lv:1,f:'+0.60',a:42.75,x:59.96,y:21.94},{n:2,id:'ครัว',lv:1,f:'±0.00',a:24.75,x:37.16,y:22.35},{n:3,id:'โถง / บันได',lv:1,f:'+0.60',a:20.28,x:41.5,y:47},
   {n:4,id:'ห้องน้ำ 3',lv:1,f:'+0.50',a:5.72,x:29.52,y:51},{n:5,id:'ห้องทานอาหาร',lv:1,f:'+0.60',a:40.95,x:35.44,y:65.52},{n:6,id:'เฉลียง',lv:1,f:'+0.60',a:17.1,x:59.96,y:39.1,out:1},
